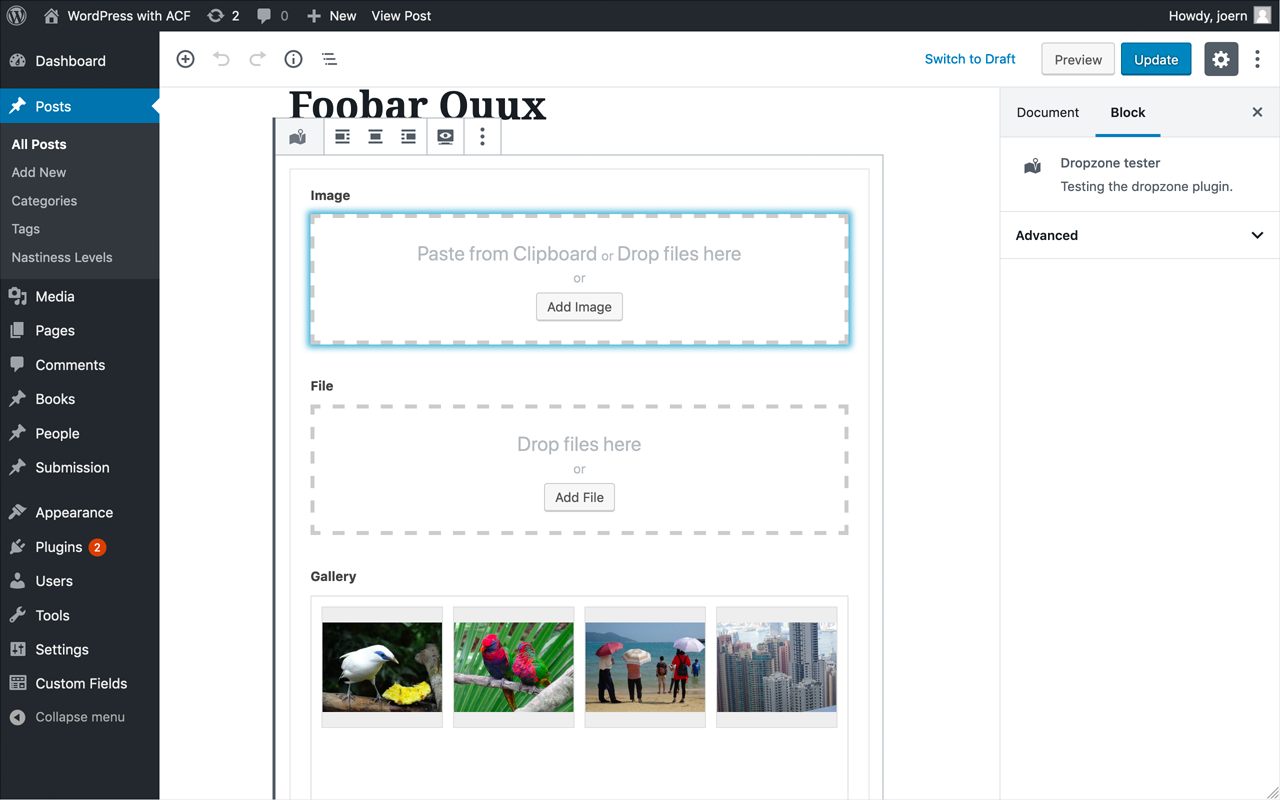
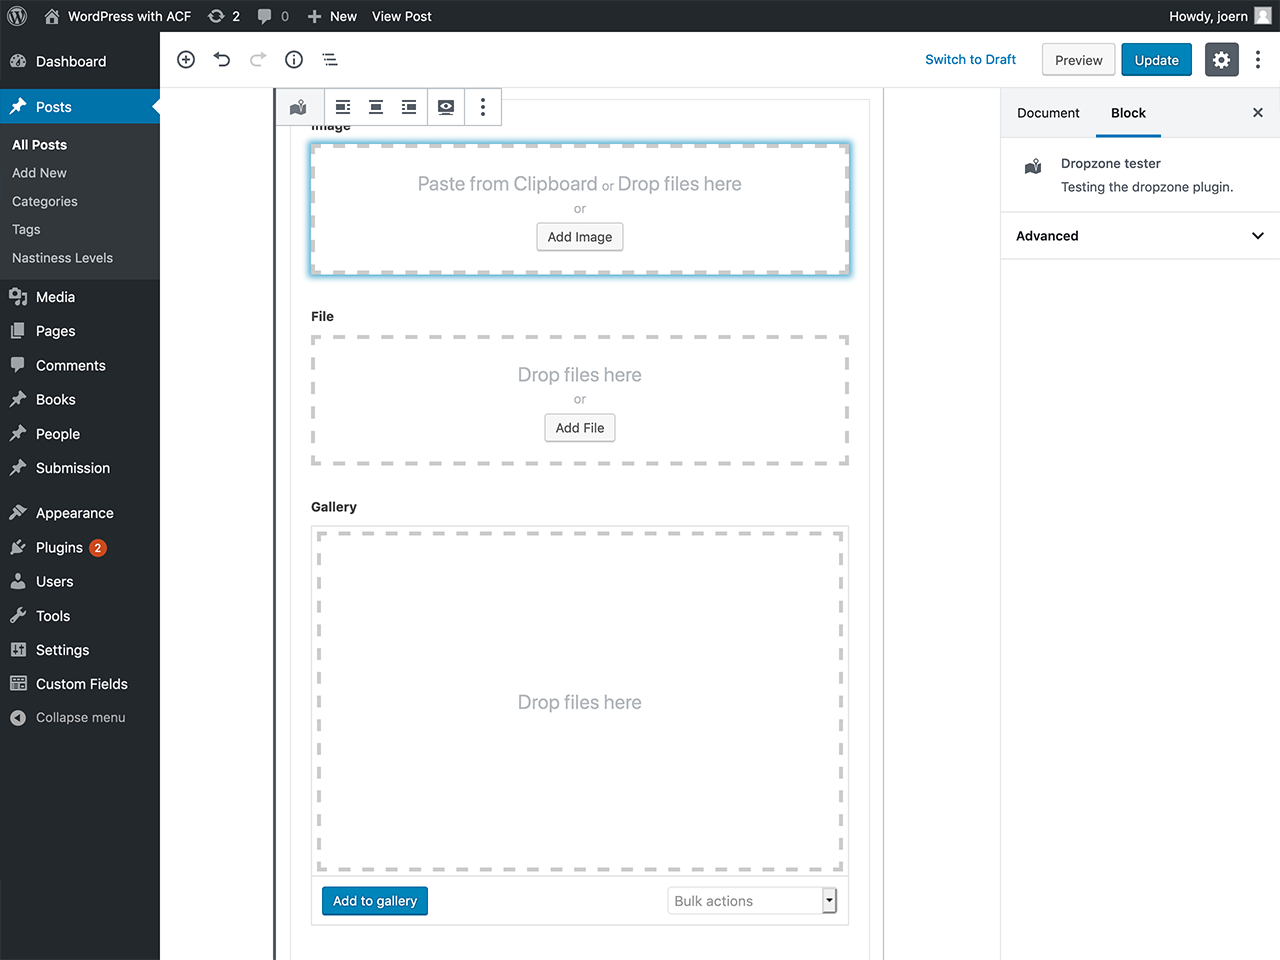
ui fixes

diff --git a/js/admin/acf-dropzone.js b/js/admin/acf-dropzone.js
@@ -1,2 +1,2 @@
-!function s(n,a,d){function l(t,e){if(!a[t]){if(!n[t]){var r="function"==typeof require&&require;if(!e&&r)return r(t,!0);if(p)return p(t,!0);var i=new Error("Cannot find module '"+t+"'");throw i.code="MODULE_NOT_FOUND",i}var o=a[t]={exports:{}};n[t][0].call(o.exports,function(e){return l(n[t][1][e]||e)},o,o.exports,s,n,a,d)}return a[t].exports}for(var p="function"==typeof require&&require,e=0;e<d.length;e++)l(d[e]);return l}({1:[function(o,e,t){(function(e){"use strict";t("undefined"!=typeof window?window.jQuery:void 0!==e?e.jQuery:null);var s=t(o("uploader-info.js")),n=t(o("acf-dropzone.js"));function t(e){return e&&e.__esModule?e:{default:e}}function r(r){var e,i,t,o;r.$el.is(".dropzone")&&(i=r.parent(),(e=r.$('[data-uploader="wp"]').get(0))&&(r.$(".hide-if-value>p").contents().filter(function(){return 3==this.nodeType}).remove(),(t=new s.default({or:!0})).render(),t.$el.prependTo(r.$(".hide-if-value")),(o=new n.default({el:e,field:r})).render(),o.ready(),o.on("acf-dropzone-uploaded",function(e,t){i&&"repeater"===i.get("type")&&0<t?r.append(e,i):r.render(e)})))}function i(t){var e,r,i=t.$(".acf-gallery-attachments").get(0);t.$el.is(".dropzone")&&((r=new s.default({or:!1})).render(),r.$el.prependTo(i),(e=new n.default({el:i,field:t})).render(),e.ready(),e.on("acf-dropzone-uploaded",function(e){t.appendAttachment(e,"prepend"===t.get("insert")?0:void 0)}))}jQuery,acf_dropzone,acf.addAction("ready_field/type=image",r),acf.addAction("ready_field/type=file",r),acf.addAction("ready_field/type=gallery",i),acf.addAction("append_field/type=image",r),acf.addAction("append_field/type=file",r),acf.addAction("append_field/type=gallery",i)}).call(this,"undefined"!=typeof global?global:"undefined"!=typeof self?self:"undefined"!=typeof window?window:{})},{"acf-dropzone.js":2,"uploader-info.js":6}],2:[function(e,t,r){"use strict";var i=n(e("notice.js")),o=n(e("pasteboard.js")),s=n(e("progress.js"));function n(e){return e&&e.__esModule?e:{default:e}}t.exports=Backbone.View.extend({initialize:function(e){var t;return this.field=e.field,this.notice=!1,this.progress=!1,this.uploader=new wp.media.view.UploaderWindow({controller:this,uploader:{dropzone:this.el,container:this.el,params:{_acfuploader:this.field.get("key")}}}),t=this.$el.is('[data-uploader="wp"]')?this.el:this.field.$(".acf-gallery-attachments").get(0),console.log(t),this.pasteboard=new o.default({controller:this,el:this.$el.is('[data-uploader="wp"]')?this.el:this.field.$(".acf-gallery-attachments").get(0)}),this},render:function(){return $(this.uploader.render().el).appendTo(this.el),this.pasteboard.render(),this},ready:function(){var t=this;return this.$el.on("drop dragenter dragleave dragover",function(e){e.stopPropagation()}).on("drop",function(e){t.removeNotice()}),this.trigger("activate"),this.uploader.ready(),this.uploader.uploader.uploader.bind("FilesAdded",this.filesAdded,this),this.uploader.uploader.uploader.bind("BeforeUpload",this.fileBeforeUpload,this),this.uploader.uploader.uploader.bind("UploadProgress",this.fileUploadProgress,this),this.uploader.uploader.uploader.bind("FileUploaded",this.fileUploaded,this),this.uploader.uploader.uploader.bind("error",this.fileUploadError,this),this.pasteboard.render(),this},filesAdded:function(e,t){this.total=t.length,this.done=0},fileBeforeUpload:function(e,t){this.addProgress(),this.progress.setLabel(_.escape(t.name))},fileUploadProgress:function(e,t){this.addProgress(),this.progress.setProgress((100*this.done+t.percent)/this.total)},fileUploaded:function(t,e,r){var i;this.file=e;try{this.trigger("acf-dropzone-uploaded",e.attachment,this.done),this.done++,this.total===this.done&&this.removeProgress()}catch(e){try{i=JSON.parse(r.response),this.fileUploadError(t,{file:this.file,message:i.data.message})}catch(e){this.fileUploadError(t,{file:this.file,message:r.response})}}},fileUploadError:function(e,t){this.done++,this.total===this.done&&this.removeProgress(),this.trigger("acf-dropzone-error",t),this.addNotice({type:"error",bold:_.escape(t.file.name),message:t.message})},addProgress:function(){return this.progress||(this.progress=new s.default,this.progress.render().$el.appendTo(this.el)),this},removeProgress:function(e){return this.progress&&(this.progress.$el.remove(),this.progress=!1),this},addNotice:function(e){return this.notice=new i.default(e),this.notice.render(),this.notice.$el.prependTo(this.el),this},removeNotice:function(e){return this.notice&&(this.notice.remove(),this.notice=!1),this}})},{"notice.js":3,"pasteboard.js":4,"progress.js":5}],3:[function(e,t,r){"use strict";t.exports=wp.media.View.extend({template:wp.template("acf-dropzone-notice"),className:"notice is-dismissible",events:{"click .notice-dismiss":"remove"},render:function(){return wp.media.View.prototype.render.apply(this,arguments),this.$el.addClass(this.options.type),this}})},{}],4:[function(e,t,r){"use strict";t.exports=Backbone.View.extend({events:{focus:"listenPaste",blur:"stopListenPaste"},listenPaste:function(e){var t=this;this.$el.on("paste",function(){t.onPaste.apply(t,arguments)})},stopListenPaste:function(){this.$el.off("paste")},initialize:function(e){return Backbone.View.prototype.initialize.apply(this,arguments),this.controller=e.controller,this},render:function(){return this.$el.attr("tabindex","-1"),this},onPaste:function(e){e.preventDefault(),e.stopPropagation();var t,r,i=e.originalEvent.clipboardData.items;for(t=0;t<i.length;t++)"file"===i[t].kind&&(r=i[t].getAsFile())&&(this.controller.uploader.uploader.param("post_data",{post_title:wp.template("acf-dropzone-attachment-title")({fieldname:this.controller.field.get("name")}).trim(),post_type:"attachment"}),this.controller.uploader.uploader.uploader.addFile(r,r.name));return this}})},{}],5:[function(e,t,r){"use strict";t.exports=Backbone.View.extend({tagName:"div",className:"media-progress-bar-box",render:function(){return this.$progress=$("<div />").addClass("media-progress-bar"),this.$label=$("<div />").addClass("media-progress-label"),this.$bar=$("<div />"),this.$el.append(this.$label),this.$progress.append(this.$bar).appendTo(this.$el),this},setLabel:function(e){return this.$label.text(e),this},setProgress:function(e){return this.$bar.width(e+"%"),this}})},{}],6:[function(e,t,r){"use strict";t.exports=wp.media.View.extend({tagName:"div",className:"acf-dropzone-info",template:wp.template("acf-dropzone-info")})},{}]},{},[1]);
[1 lines of base64/hex data omitted]
+!function s(n,a,d){function l(t,e){if(!a[t]){if(!n[t]){var r="function"==typeof require&&require;if(!e&&r)return r(t,!0);if(p)return p(t,!0);var i=new Error("Cannot find module '"+t+"'");throw i.code="MODULE_NOT_FOUND",i}var o=a[t]={exports:{}};n[t][0].call(o.exports,function(e){return l(n[t][1][e]||e)},o,o.exports,s,n,a,d)}return a[t].exports}for(var p="function"==typeof require&&require,e=0;e<d.length;e++)l(d[e]);return l}({1:[function(o,e,t){(function(e){"use strict";t("undefined"!=typeof window?window.jQuery:void 0!==e?e.jQuery:null);var s=t(o("uploader-info.js")),n=t(o("acf-dropzone.js"));function t(e){return e&&e.__esModule?e:{default:e}}function r(r){var e,i,t,o;r.$el.is(".dropzone")&&(i=r.parent(),(e=r.$('[data-uploader="wp"]').get(0))&&(r.$(".hide-if-value>p").contents().filter(function(){return 3==this.nodeType}).remove(),(t=new s.default({or:!0})).render(),t.$el.prependTo(r.$(".hide-if-value")),(o=new n.default({el:e,field:r})).render(),o.ready(),o.on("acf-dropzone-uploaded",function(e,t){i&&"repeater"===i.get("type")&&0<t?r.append(e,i):r.render(e)})))}function i(t){var e,r,i=t.$(".acf-gallery-attachments").get(0);t.$el.is(".dropzone")&&((r=new s.default({or:!1})).render(),r.$el.prependTo(i),(e=new n.default({el:i,field:t})).render(),e.ready(),e.on("acf-dropzone-uploaded",function(e){t.appendAttachment(e,"prepend"===t.get("insert")?0:void 0)}))}jQuery,acf_dropzone,acf.addAction("ready_field/type=image",r),acf.addAction("ready_field/type=file",r),acf.addAction("ready_field/type=gallery",i),acf.addAction("append_field/type=image",r),acf.addAction("append_field/type=file",r),acf.addAction("append_field/type=gallery",i)}).call(this,"undefined"!=typeof global?global:"undefined"!=typeof self?self:"undefined"!=typeof window?window:{})},{"acf-dropzone.js":2,"uploader-info.js":6}],2:[function(e,t,r){"use strict";var i=n(e("notice.js")),o=n(e("pasteboard.js")),s=n(e("progress.js"));function n(e){return e&&e.__esModule?e:{default:e}}t.exports=Backbone.View.extend({initialize:function(e){return this.field=e.field,this.notice=!1,this.progress=!1,this.uploader=new wp.media.view.UploaderWindow({controller:this,uploader:{dropzone:this.el,container:this.el,params:{_acfuploader:this.field.get("key")}}}),this.pasteboard=new o.default({controller:this,el:this.$el.is('[data-uploader="wp"]')?this.el:this.field.$(".acf-gallery-attachments").get(0)}),this},render:function(){return $(this.uploader.render().el).appendTo(this.el),this.pasteboard.render(),this},ready:function(){var t=this;return this.$el.on("drop dragenter dragleave dragover",function(e){e.stopPropagation()}).on("drop",function(e){t.removeNotice()}),this.trigger("activate"),this.uploader.ready(),this.uploader.uploader.uploader.bind("FilesAdded",this.filesAdded,this),this.uploader.uploader.uploader.bind("BeforeUpload",this.fileBeforeUpload,this),this.uploader.uploader.uploader.bind("UploadProgress",this.fileUploadProgress,this),this.uploader.uploader.uploader.bind("FileUploaded",this.fileUploaded,this),this.uploader.uploader.uploader.bind("error",this.fileUploadError,this),this.pasteboard.render(),this},filesAdded:function(e,t){this.total=t.length,this.done=0},fileBeforeUpload:function(e,t){this.addProgress(),this.progress.setLabel(_.escape(t.name))},fileUploadProgress:function(e,t){this.addProgress(),this.progress.setProgress((100*this.done+t.percent)/this.total)},fileUploaded:function(t,e,r){var i;this.file=e;try{this.trigger("acf-dropzone-uploaded",e.attachment,this.done),this.done++,this.total===this.done&&this.removeProgress()}catch(e){try{i=JSON.parse(r.response),this.fileUploadError(t,{file:this.file,message:i.data.message})}catch(e){this.fileUploadError(t,{file:this.file,message:r.response})}}},fileUploadError:function(e,t){this.done++,this.total===this.done&&this.removeProgress(),this.trigger("acf-dropzone-error",t),this.addNotice({type:"error",bold:_.escape(t.file.name),message:t.message})},addProgress:function(){return this.progress||(this.progress=new s.default,this.progress.render().$el.prependTo(this.el)),this},removeProgress:function(e){return this.progress&&(this.progress.$el.remove(),this.progress=!1),this},addNotice:function(e){return this.notice=new i.default(e),this.notice.render(),this.notice.$el.prependTo(this.el),this},removeNotice:function(e){return this.notice&&(this.notice.remove(),this.notice=!1),this}})},{"notice.js":3,"pasteboard.js":4,"progress.js":5}],3:[function(e,t,r){"use strict";t.exports=wp.media.View.extend({template:wp.template("acf-dropzone-notice"),className:"notice is-dismissible",events:{"click .notice-dismiss":"remove"},render:function(){return wp.media.View.prototype.render.apply(this,arguments),this.$el.addClass(this.options.type),this}})},{}],4:[function(e,t,r){"use strict";t.exports=Backbone.View.extend({events:{focus:"listenPaste",blur:"stopListenPaste"},listenPaste:function(e){var t=this;this.$el.on("paste",function(){t.onPaste.apply(t,arguments)})},stopListenPaste:function(){this.$el.off("paste")},initialize:function(e){return Backbone.View.prototype.initialize.apply(this,arguments),this.controller=e.controller,this},render:function(){return this.$el.attr("tabindex","-1"),this},onPaste:function(e){e.preventDefault(),e.stopPropagation();var t,r,i=e.originalEvent.clipboardData.items;for(t=0;t<i.length;t++)"file"===i[t].kind&&(r=i[t].getAsFile())&&(this.controller.uploader.uploader.param("post_data",{post_title:wp.template("acf-dropzone-attachment-title")({fieldname:this.controller.field.get("name")}).trim(),post_type:"attachment"}),this.controller.uploader.uploader.uploader.addFile(r,r.name));return this}})},{}],5:[function(e,t,r){"use strict";t.exports=Backbone.View.extend({tagName:"div",className:"media-progress-bar-box",render:function(){return this.$progress=$("<div />").addClass("media-progress-bar"),this.$label=$("<div />").addClass("media-progress-label"),this.$bar=$("<div />"),this.$el.append(this.$label),this.$progress.append(this.$bar).appendTo(this.$el),this},setLabel:function(e){return this.$label.text(e),this},setProgress:function(e){return this.$bar.width(e+"%"),this}})},{}],6:[function(e,t,r){"use strict";t.exports=wp.media.View.extend({tagName:"div",className:"acf-dropzone-info",template:wp.template("acf-dropzone-info")})},{}]},{},[1]);
[1 lines of base64/hex data omitted]

diff --git a/css/admin/acf-dropzone.css b/css/admin/acf-dropzone.css
@@ -1,3 +1,3 @@
-.block-editor-block-list__block .block-editor-block-contextual-toolbar{z-index:101}.components-notice-list{z-index:109}.dropzone.acf-field-image .acf-image-uploader .hide-if-value,.dropzone.acf-field-file .acf-file-uploader .hide-if-value{padding:20px;border:4px dashed #ccc}.dropzone .acf-input{position:relative}.dropzone .uploader-window{position:absolute}.dropzone .uploader-window h1,.dropzone .uploader-window h3{margin:0;font-size:25px}.dropzone .media-progress-label{font-weight:bold;text-align:center;margin-top:auto}.dropzone .media-progress-bar-box{position:absolute;left:0;top:0;bottom:0;right:0;background-color:rgba(204,204,204,0.75);display:-webkit-box;display:-ms-flexbox;display:flex;-webkit-box-orient:vertical;-webkit-box-direction:normal;-ms-flex-direction:column;flex-direction:column;-webkit-box-align:center;-ms-flex-align:center;align-items:center}.dropzone .media-progress-bar{margin-bottom:auto}.dropzone.acf-field-gallery .notice{z-index:1;margin-top:0;margin-bottom:5px}.dropzone [data-uploader="wp"]>.hide-if-value{text-align:center}.dropzone .acf-dropzone-info{color:#b4b9be;margin-bottom:5px}.dropzone .drag-drop-info{font-size:20px}.dropzone .acf-gallery,.dropzone [data-uploader="wp"]{z-index:100}.dropzone .acf-gallery-attachments .show-if-focus,.dropzone [data-uploader="wp"] .show-if-focus{display:none}.dropzone .acf-gallery-attachments:focus,.dropzone [data-uploader="wp"]:focus{-webkit-box-shadow:0 0 6px 3px rgba(0,133,186,0.66);box-shadow:0 0 6px 3px rgba(0,133,186,0.66)}.dropzone .acf-gallery-attachments:focus .show-if-focus,.dropzone [data-uploader="wp"]:focus .show-if-focus{display:initial}.dropzone .acf-gallery-attachments .uploader-window,.dropzone .acf-gallery-attachments .acf-dropzone-info{position:-webkit-sticky;position:sticky;top:0;height:100%;margin-bottom:-100%}.dropzone .acf-gallery-attachments .acf-dropzone-info{display:-webkit-box;display:-ms-flexbox;display:flex;-webkit-box-orient:vertical;-webkit-box-direction:normal;-ms-flex-direction:column;flex-direction:column;-webkit-box-align:center;-ms-flex-align:center;align-items:center;border:4px dashed #ccc}.dropzone .acf-gallery-attachments .acf-dropzone-info :first-child{margin-top:auto}.dropzone .acf-gallery-attachments .acf-dropzone-info :last-child{margin-bottom:auto}.dropzone .acf-gallery-attachments .acf-gallery-attachment:last-of-type{margin-bottom:5px}
+.block-editor-block-list__block .block-editor-block-contextual-toolbar{z-index:101}.components-notice-list{z-index:109}.dropzone.acf-field-image .acf-image-uploader .hide-if-value,.dropzone.acf-field-file .acf-file-uploader .hide-if-value{padding:20px;border:4px dashed #ccc}.dropzone .acf-input{position:relative}.dropzone .uploader-window{position:absolute}.dropzone .uploader-window h1,.dropzone .uploader-window h3{margin:0;font-size:25px}.dropzone .media-progress-label{font-weight:bold;text-align:center;margin-top:auto}.dropzone .media-progress-bar-box{background-color:rgba(204,204,204,0.75);display:-webkit-box;display:-ms-flexbox;display:flex;-webkit-box-orient:vertical;-webkit-box-direction:normal;-ms-flex-direction:column;flex-direction:column;-webkit-box-align:center;-ms-flex-align:center;align-items:center}.dropzone .media-progress-bar{margin-bottom:auto}.dropzone.acf-field-gallery .notice{z-index:1;margin-top:0;margin-bottom:5px}.dropzone [data-uploader="wp"] .media-progress-bar-box{position:absolute;left:0;top:0;bottom:0;right:0}.dropzone [data-uploader="wp"]>.hide-if-value{text-align:center}.dropzone .acf-dropzone-info{color:#b4b9be;margin-bottom:5px;text-align:center}.dropzone .drag-drop-info{font-size:20px}.dropzone .acf-gallery,.dropzone [data-uploader="wp"]{z-index:100}.dropzone .acf-gallery-attachments .show-if-focus,.dropzone [data-uploader="wp"] .show-if-focus{display:none}.dropzone .acf-gallery-attachments:focus,.dropzone [data-uploader="wp"]:focus{-webkit-box-shadow:0 0 6px 3px rgba(0,133,186,0.66);box-shadow:0 0 6px 3px rgba(0,133,186,0.66)}.dropzone .acf-gallery-attachments:focus .show-if-focus,.dropzone [data-uploader="wp"]:focus .show-if-focus{display:initial}.dropzone .acf-gallery-attachments{border:4px dashed #ccc;margin:1px;padding:1px}.dropzone .acf-gallery-attachments .media-progress-bar-box,.dropzone .acf-gallery-attachments .uploader-window,.dropzone .acf-gallery-attachments .acf-dropzone-info{position:absolute;top:0;height:100%;width:100%}.dropzone .acf-gallery-attachments .media-progress-bar-box,.dropzone .acf-gallery-attachments .uploader-window{position:-webkit-sticky;position:sticky;margin-bottom:-100%;z-index:1}.dropzone .acf-gallery-attachments .acf-dropzone-info{display:-webkit-box;display:-ms-flexbox;display:flex;-webkit-box-orient:vertical;-webkit-box-direction:normal;-ms-flex-direction:column;flex-direction:column;-webkit-box-align:center;-ms-flex-align:center;align-items:center}.dropzone .acf-gallery-attachments .acf-dropzone-info :first-child{margin-top:auto}.dropzone .acf-gallery-attachments .acf-dropzone-info :last-child{margin-bottom:auto}.dropzone .acf-gallery-attachments .acf-gallery-attachment:last-of-type{margin-bottom:5px}
 
[2 lines of base64/hex data omitted]

diff --git a/src/js/lib/acf-dropzone.js b/src/js/lib/acf-dropzone.js
@@ -5,7 +5,7 @@ import Progress from 'progress.js';
 
 module.exports = Backbone.View.extend({
 	initialize: function( opt ) {
-		var $pasteboard;
+
 		this.field = opt.field;
 
 		this.notice = false;
@@ -20,8 +20,7 @@ module.exports = Backbone.View.extend({
 				}
 			}
 		});
-		$pasteboard = this.$el.is('[data-uploader="wp"]') ? this.el : this.field.$('.acf-gallery-attachments').get(0);
-		console.log($pasteboard)
+
 		this.pasteboard = new Pasteboard({
 			controller: this,
 			el: this.$el.is('[data-uploader="wp"]') ? this.el : this.field.$('.acf-gallery-attachments').get(0)
@@ -31,12 +30,13 @@ module.exports = Backbone.View.extend({
 	},
 	render:function() {
 		$( this.uploader.render().el ).appendTo( this.el );
+
 		this.pasteboard.render();
 
 		return this;
 	},
 	ready: function() {
-		var self = this;
+		const self = this;
 		this.$el
 		.on('drop dragenter dragleave dragover',function(e){
 			// prevent block editor file drop
@@ -74,7 +74,7 @@ module.exports = Backbone.View.extend({
 		this.progress.setProgress( ( 100 * this.done + file.percent ) / this.total );
 	},
 	fileUploaded:function( uploader, file, response ) {
-		var result;
+		let result;
 		this.file = file;
 		try {
 			this.trigger('acf-dropzone-uploaded',file.attachment,this.done);
@@ -115,7 +115,7 @@ module.exports = Backbone.View.extend({
 			return this;
 		}
 		this.progress = new Progress();
-		this.progress.render().$el.appendTo(this.el);
+		this.progress.render().$el.prependTo(this.el);
 		return this;
 	},
 	removeProgress:function( percent ) {

diff --git a/src/scss/admin/acf-dropzone.scss b/src/scss/admin/acf-dropzone.scss
@@ -45,11 +45,6 @@
 		margin-top:auto;
 	}
 	.media-progress-bar-box {
-		position: absolute;
-		left:0;
-		top:0;
-		bottom:0;
-		right:0;
 		background-color:rgba($wp-gray-dark,0.75);
 		display: flex;
 		flex-direction:column;
@@ -68,6 +63,13 @@
 		}
 	}
 	[data-uploader="wp"] {
+		.media-progress-bar-box {
+			position: absolute;
+			left:0;
+			top:0;
+			bottom:0;
+			right:0;
+		}
 		& > .hide-if-value {
 			text-align:center;
 		}
@@ -75,6 +77,7 @@
 	.acf-dropzone-info {
 		color:$wp-gray-darker;
 		margin-bottom:5px;
+		text-align: center;
 	}
 	.drag-drop-info {
 		font-size:20px;
@@ -99,18 +102,29 @@
 	}
 	
 	.acf-gallery-attachments {
+		border:4px dashed $wp-gray-dark;
+		margin:1px;
+		padding:1px;
+		.media-progress-bar-box,
 		.uploader-window,
 		.acf-dropzone-info {
-			position:sticky;
+			position:absolute;
 			top:0;
 			height:100%;
+			width:100%;
+			
+			
+		}
+		.media-progress-bar-box,
+		.uploader-window {
+			position:sticky;
 			margin-bottom:-100%;
+			z-index:1;
 		}
 		.acf-dropzone-info {
 			display: flex;
 			flex-direction: column;
 			align-items: center;
-			border:4px dashed $wp-gray-dark;
 			:first-child {
 				margin-top:auto;
 			}
@@ -120,7 +134,7 @@
 		}
 		.acf-gallery-attachment {
 			&:last-of-type {
-				margin-bottom:5px;				
+				margin-bottom:5px;	
 			}
 		}
 	}

diff --git a/src/js/lib/pasteboard.js b/src/js/lib/pasteboard.js
@@ -6,7 +6,7 @@ module.exports = Backbone.View.extend({
 		blur:'stopListenPaste'
 	},
 	listenPaste:function(e){
-		var self = this;
+		const self = this;
 		this.$el.on('paste',function() {
 			self.onPaste.apply( self, arguments );
 		});
@@ -28,8 +28,8 @@ module.exports = Backbone.View.extend({
 		e.preventDefault();
 		e.stopPropagation();
 
-		var items = e.originalEvent.clipboardData.items,
-			i, blob, file, filename;
+		const items = e.originalEvent.clipboardData.items;
+		let i, blob, file, filename;
 
 		for ( i = 0; i < items.length; i++ ) {
 

diff --git a/src/js/admin/acf-dropzone/index.js b/src/js/admin/acf-dropzone/index.js
@@ -6,14 +6,6 @@ import ACFDropzone from 'acf-dropzone.js';
 (function( $ ){
 
 
-	// var UploaderInfo = wp.media.View.extend({
-	// 	tagName:   'div',
-	// 	className: 'acf-dropzone-info',
-	// 	template:wp.template('acf-dropzone-info')
-	// });
-
-
-
 	const initFileDropzone = field => {
 		let el,
 			parent,
